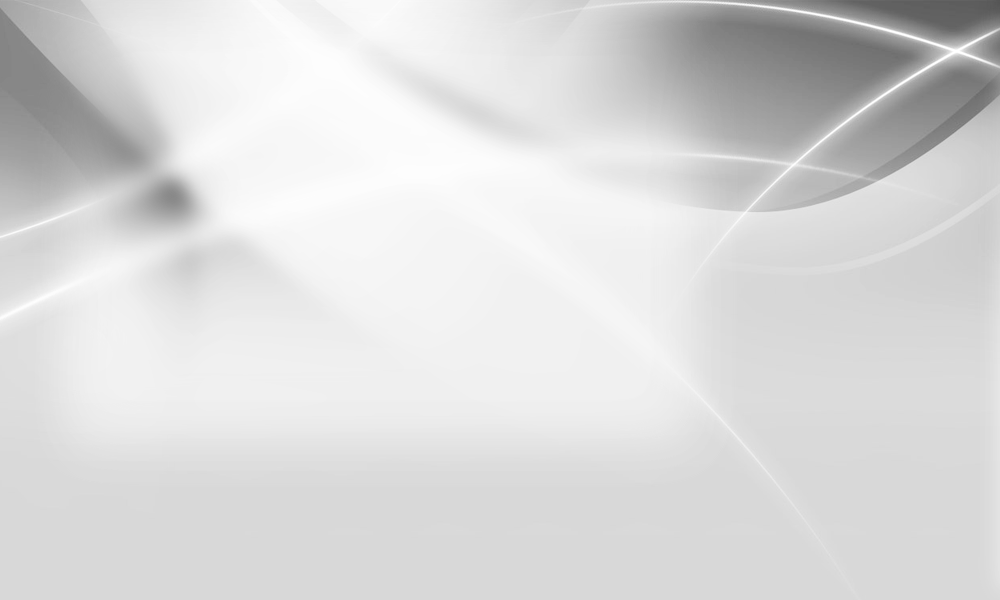
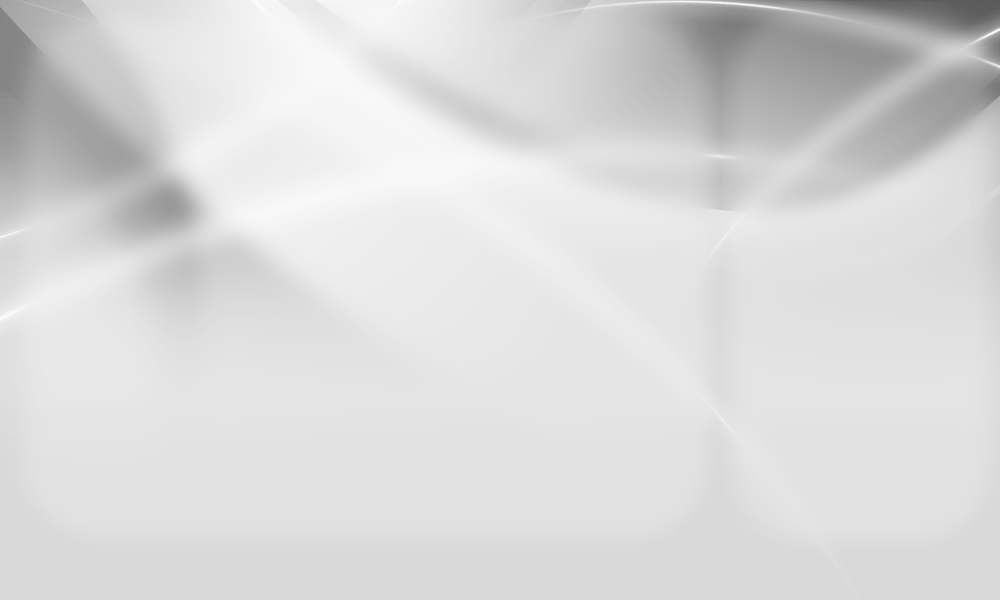
update animations and editor background

diff --git a/src/lightbot/graphics/Animation.java b/src/lightbot/graphics/Animation.java
@@ -30,6 +30,10 @@ public class Animation {
 	private Sprite cloneSprite = null;
 	
 	
+	private int currentCellX = Robot.wheatley.getLine();
+	private int currentCellY = Robot.wheatley.getColumn();
+	
+	
 	/********************************************************************************************/
 	/*										Constructors										*/
 	/********************************************************************************************/
@@ -327,11 +331,11 @@ public class Animation {
 					
 					if(isClone){
 						nextCellX = Robot.wheatleyClone.getLine()-1;
-						nextCellY = Robot.wheatleyClone.getColumn()+1;
+						//nextCellY = Robot.wheatleyClone.getColumn()+1;
 					}
 					else{
 						nextCellX = Robot.wheatley.getLine()-1;
-						nextCellY = Robot.wheatley.getColumn()+1;
+						//nextCellY = Robot.wheatley.getColumn()+1;
 					}
 					
 					break;
@@ -351,11 +355,15 @@ public class Animation {
 					break;
 			}
 		}
-		else if(upOrDown == 1){
+		else if(upOrDown == 1)
 			movementY = (Textures.cubeTextureWhite.getSize().y-Textures.cellTexture.getSize().y) / this.movementTime;
-		}
 		else
 			movementY = -(Textures.cubeTextureWhite.getSize().y-Textures.cellTexture.getSize().y) / this.movementTime;
+		
+		if(upOrDown != 0){
+			nextCellX = currentCellX;
+			nextCellY = currentCellY;
+		}
 		
 		Clock frameClock = new Clock();
 		Clock resetClock = new Clock();
@@ -378,30 +386,28 @@ public class Animation {
 							LightCore.window.draw(robotSprite);
 						}
 						
-						if(!(nextCellY > Robot.wheatleyClone.getColumn() 
-								&& (l >= nextCellX && l <= Robot.wheatleyClone.getLine())
-								&& (c >= nextCellY && c <= Robot.wheatleyClone.getColumn())) 
-								&& (l != nextCellX || c != nextCellY)){
-							if(!Robot.wheatley.getVisibility() || (Robot.wheatley.getVisibility() && Robot.wheatley.getLine() != l && Robot.wheatley.getColumn() != c))
-								printPillar(l, c);
+						if(nextCellX < Robot.wheatleyClone.getLine() && l == nextCellX && c == nextCellY){
+							printPillar(nextCellX, nextCellY);
 						}
-						
-						if(l == Robot.wheatleyClone.getLine() && c == Robot.wheatleyClone.getColumn()){
-							
-							if(nextCellY > Robot.wheatleyClone.getColumn() && nextCellX < Robot.wheatleyClone.getLine()){
-								LightCore.window.draw(cloneSprite);
-								
-								for(int lin = nextCellX; lin<=Robot.wheatleyClone.getLine(); lin++){
-									for(int cin = nextCellY; cin<cubes[0].length; cin++){
-										if(!(lin == nextCellX && cin < nextCellY)){
-											printPillar(lin, cin);
-										}
-									}
+						else if(l == Robot.wheatleyClone.getLine() && c == Robot.wheatleyClone.getColumn()){
+							printPillar(l, c);
+							if(nextCellY > Robot.wheatleyClone.getColumn()){
+								printPillar(l, nextCellY);
+							}
+							else if(nextCellX > Robot.wheatleyClone.getLine()){
+								for(int cin = 0; cin <= c; cin++){
+									printPillar(nextCellX, cin);
 								}
 							}
-							else{
-								printPillar(nextCellX, nextCellY);
-								LightCore.window.draw(cloneSprite);
+							LightCore.window.draw(cloneSprite);
+						}
+						else{
+							if(nextCellX > Robot.wheatleyClone.getLine()){
+								if((l == nextCellX && c > Robot.wheatleyClone.getColumn()) || l != nextCellX)
+									printPillar(l, c);
+							}
+							else if(l != nextCellX || c != nextCellY){
+									printPillar(l, c);
 							}
 						}
 					}
@@ -411,30 +417,28 @@ public class Animation {
 							LightCore.window.draw(cloneSprite);
 						}
 						
-						if(!(nextCellY > Robot.wheatley.getColumn() 
-								&& (l >= nextCellX && l <= Robot.wheatley.getLine())
-								&& (c >= nextCellY && c <= Robot.wheatley.getColumn())) 
-								&& (l != nextCellX || c != nextCellY)){
-							if(!Robot.wheatleyClone.getVisibility() || (Robot.wheatleyClone.getVisibility() && Robot.wheatleyClone.getLine() != l && Robot.wheatleyClone.getColumn() != c))
-								printPillar(l, c);
+						if(nextCellX < Robot.wheatley.getLine() && l == nextCellX && c == nextCellY){
+							printPillar(nextCellX, nextCellY);
 						}
-						
-						if(l == Robot.wheatley.getLine() && c == Robot.wheatley.getColumn()){
-							
-							if(nextCellY > Robot.wheatley.getColumn() && nextCellX < Robot.wheatley.getLine()){
-								LightCore.window.draw(robotSprite);
-								
-								for(int lin = nextCellX; lin<=Robot.wheatley.getLine(); lin++){
-									for(int cin = nextCellY; cin<cubes[0].length; cin++){
-										if(!(lin == nextCellX && cin < nextCellY)){
-											printPillar(lin, cin);
-										}
-									}
+						else if(l == Robot.wheatley.getLine() && c == Robot.wheatley.getColumn()){
+							printPillar(l, c);
+							if(nextCellY > Robot.wheatley.getColumn()){
+								printPillar(l, nextCellY);
+							}
+							else if(nextCellX > Robot.wheatley.getLine()){
+								for(int cin = 0; cin <= c; cin++){
+									printPillar(nextCellX, cin);
 								}
 							}
-							else{
-								printPillar(nextCellX, nextCellY);
-								LightCore.window.draw(robotSprite);
+							LightCore.window.draw(robotSprite);
+						}
+						else{
+							if(nextCellX > Robot.wheatley.getLine()){
+								if((l == nextCellX && c > Robot.wheatley.getColumn()) || l != nextCellX)
+									printPillar(l, c);
+							}
+							else if(l != nextCellX || c != nextCellY){
+									printPillar(l, c);
 							}
 						}
 					}
@@ -464,7 +468,11 @@ public class Animation {
 			
 				int frameRow = frame / 5;
 				int frameCol = frame % 5;
-				robotSprite.setTextureRect(new IntRect(frameCol * 38, frameRow * 50, 38, 50));
+				
+				if(isClone)
+					cloneSprite.setTextureRect(new IntRect(frameCol * 38, frameRow * 50, 38, 50));
+				else
+					robotSprite.setTextureRect(new IntRect(frameCol * 38, frameRow * 50, 38, 50));
 				
 				if(frame == 0)
 					rotate = false;
@@ -482,8 +490,17 @@ public class Animation {
 		    if(resetClock.getElapsedTime().asMilliseconds() >= movementTime)
 		    	finished = true;
 		}
+		currentCellX = nextCellX;
+	    currentCellY = nextCellY;
 	}
 	
+	 /**
+	  * 
+	  * @param line
+	  * @param column
+	  * @param level
+	  * @param open
+	  */
 	public void animeBlackHole(int line, int column, int level, boolean open){
 		boolean finished = false;
 		boolean endDisplay = false;
@@ -502,7 +519,6 @@ public class Animation {
 		Clock animClock = new Clock();
 		
 		Vector2f initialPosition = cubes[line][column][level].getPosition();
-		System.out.println(initialPosition.x + " " + initialPosition.y);
 		
 		cubes[line][column][level].setTexture(Textures.cubeTextureWhite);
 		

diff --git a/src/lightbot/graphics/Editor.java b/src/lightbot/graphics/Editor.java
@@ -73,6 +73,9 @@ public class Editor implements DisplayMode{
 	private static Button robotButton;
 	private static Button homeButton;
 	
+	private static Button turnRobotLeft;
+	private static Button turnRobotRight;
+	
 	private Button turnLeftButton;
 	private Button turnRightButton;
 	
@@ -191,6 +194,17 @@ public class Editor implements DisplayMode{
 		
 		robotButton = new Button(robotSprite, Textures.robotButtonTexture, Textures.robotButtonTextureRelief);
 		
+		
+		// Button for the robot's rotation
+		Sprite turnRobotLeftSprite = new Sprite(Textures.rotateLeft);
+		Sprite turnRobotRightSprite = new Sprite(Textures.rotateRight);
+		turnRobotLeftSprite.setPosition((float)(GRID_DISPLAY_SIZE+MARGIN_LEFT+((235-2*Textures.rotateLeft.getSize().x)/3)), 300);
+		turnRobotRightSprite.setPosition((float)(GRID_DISPLAY_SIZE+MARGIN_LEFT+((235-2*Textures.rotateLeft.getSize().x)/3)*2+Textures.rotateLeft.getSize().y), 300);
+		
+		turnRobotLeft = new Button(turnRobotLeftSprite, null, null);
+		turnRobotRight = new Button(turnRobotRightSprite, null, null);
+		
+		// Button for grid rotation
 		Sprite turnLeftSprite = new Sprite(Textures.rotateLeft);
 		turnLeftSprite.setPosition(MARGIN_LEFT+35, (WINDOW_HEIGHT-MARGIN_LEFT-30-Textures.rotateLeft.getSize().y));
 		
@@ -205,6 +219,7 @@ public class Editor implements DisplayMode{
 		
 		homeButton = new Button(homeSprite, null, null);
 		
+		toDisplay.add(new Sprite(Textures.backgroundTexture));
 		canva.initCanva();
 		toDisplay.addAll(canva.getCanva());
 		toDisplay.add(turnLeftSprite);
@@ -226,6 +241,9 @@ public class Editor implements DisplayMode{
 		
 		toDisplay.add(homeSprite);
 		
+		toDisplay.add(turnRobotLeftSprite);
+		toDisplay.add(turnRobotRightSprite);
+		
 		blueSplash.setId(id);
 		orangeSplash.setId(id+1);
 		purpleSplash.setId(id+2);
@@ -238,6 +256,9 @@ public class Editor implements DisplayMode{
 		robotButton.setId(id+8);
 		
 		homeButton.setId(id+9);
+		
+		turnRobotLeft.setId(id+10);
+		turnRobotRight.setId(id+11);
 	}
 	
 	/**
@@ -304,7 +325,7 @@ public class Editor implements DisplayMode{
 								display.displayRobot(pos.getLine(), pos.getColumn(), originX, originY);
 						}
 						else{
-							System.out.println("Add cube on : \t\tLine : " + pos.getLine() + ", column : " + pos.getColumn() + ", level : " + pos.getLevel());
+							//System.out.println("Add cube on : \t\tLine : " + pos.getLine() + ", column : " + pos.getColumn() + ", level : " + pos.getLevel());
 		       	 			if(light){
 		       	 				if(!(display.gridDisplay.grid.getCell(pos.getLine(), pos.getColumn()) instanceof TeleportCell) 
 		       	 							&& !(display.gridDisplay.grid.getCell(pos.getLine(), pos.getColumn()) instanceof ColoredCell)
@@ -407,7 +428,7 @@ public class Editor implements DisplayMode{
 					if(pos.isFound() && pos.getLevel() > -1){
 						Cell cell = display.gridDisplay.grid.getCell(pos.getLine(), pos.getColumn());
 						
-						System.out.println("Remove cube on : \tLine : " + pos.getLine() + ", column : " + pos.getColumn() + ", level : " + pos.getLevel());
+						//System.out.println("Remove cube on : \tLine : " + pos.getLine() + ", column : " + pos.getColumn() + ", level : " + pos.getLevel());
 	       	 			display.anim.addRemoveCube(pos.getLine(), pos.getColumn(), pos.getLevel(), false, false);
 	       	 			display.gridDisplay.removeCube(pos.getLine(), pos.getColumn(), pos.getLevel()+1);
 	       	 			display.anim.updateSprite(display.gridDisplay.getGridSprites());
@@ -569,6 +590,14 @@ public class Editor implements DisplayMode{
 					display.rotate(1);
 					break;
 					
+				case TURN_ROBOT_LEFT:
+					display.rotateRobot(RelativeDirection.LEFT);
+					break;
+					
+				case TURN_ROBOT_RIGHT:
+					display.rotateRobot(RelativeDirection.RIGHT);
+					break;
+					
 				case SPLASH_BLUE:
 					blueSplash.changeTexture();
 					toDisplay.set(blueSplash.getId(), blueSplash.getSprite());
@@ -660,6 +689,10 @@ public class Editor implements DisplayMode{
 				return EditorEvent.TURN_LEFT;
 			else if(turnRightButton.isInside(mouse.position))
 				return EditorEvent.TURN_RIGHT;
+			else if(turnRobotLeft.isInside(mouse.position))
+				return EditorEvent.TURN_ROBOT_LEFT;
+			else if(turnRobotRight.isInside(mouse.position))
+				return EditorEvent.TURN_ROBOT_RIGHT;
 			else
 				return EditorEvent.GRID_ADD;
 		}

diff --git a/src/lightbot/graphics/RobotDisplay.java b/src/lightbot/graphics/RobotDisplay.java
@@ -1,5 +1,8 @@
 package lightbot.graphics;
 
+import java.io.IOException;
+import java.nio.file.Paths;
+
 import lightbot.LightCore;
 import lightbot.system.CardinalDirection;
 import lightbot.system.Colour;
@@ -22,8 +25,6 @@ public class RobotDisplay implements DisplayPrimitive{
 	private int originX;
 	private int originY;
 	
-	private Colour colour;
-	private CardinalDirection direction;
 	private int transparency;
 	
 	private final float robotHeight = 20;
@@ -54,31 +55,41 @@ public class RobotDisplay implements DisplayPrimitive{
 		this.line = this.robot.getLine();
 		this.column = this.robot.getColumn();
 		this.level = GridDisplay.levelMax[this.line][this.column];
-		this.colour = this.robot.getColour();
-		this.direction = this.robot.getDirection();
 		
 		this.transparency = transparency;
 		
-		System.out.println("Line : " + line + ", column : " + column + ", level : " + level + " " + direction.toString());
+		//System.out.println("Line : " + line + ", column : " + column + ", level : " + level + " " + direction.toString());
 		
-		
-		switch(this.robot.getDirection()){
-			case EAST:
-				currentTexture = Textures.robotEast;
+		String colour = "";
+		switch(this.robot.getColour()){
+			case BLUE:
+				colour = "blue";
 				break;
-			case NORTH:
-				currentTexture = Textures.robotNorth;
+			case ORANGE:
+				colour = "orange";
 				break;
-			case SOUTH:
-				currentTexture = Textures.robotSouth;
+			case PURPLE:
+				colour = "purple";
 				break;
-			case WEST:
-				currentTexture = Textures.robotWest;
+			case RED:
+				colour = "red";
 				break;
 			default:
-				currentTexture = Textures.robotNorth;
+				colour = "white";
 				break;
 		}
+		
+		String direction = this.robot.getDirection().toString().toLowerCase();
+		
+		String path = "ressources/robot/" + colour + "_" + direction + ".png";
+		
+		currentTexture = new Texture();
+		try {
+			currentTexture.loadFromFile(Paths.get(path));
+		} catch (IOException e) {
+			e.printStackTrace();
+		}
+		currentTexture.setSmooth(true);
 		
 		this.robotSprite = create();
 	}

diff --git a/src/lightbot/graphics/Display.java b/src/lightbot/graphics/Display.java
@@ -189,4 +189,13 @@ public class Display {
 		else
 			anim.updateSprite(gridDisplay.getGridSprites());
 	}
+	
+	public void rotateRobot(RelativeDirection direction){
+		if(robotIsDisplayed){
+			Turn turn = new Turn(direction, Colour.WHITE);
+			turn.execute(null, Robot.wheatley);
+			robotDisplay.updateRobot(Robot.wheatley, robotTransparency);
+			anim.updateSprite(gridDisplay.getGridSprites(), robotDisplay.getSprite());
+		}
+	}
 }

diff --git a/src/lightbot/graphics/EditorEvent.java b/src/lightbot/graphics/EditorEvent.java
@@ -13,6 +13,9 @@ public enum EditorEvent {
 	ROBOT,
 	HOME,
 	
+	TURN_ROBOT_LEFT,
+	TURN_ROBOT_RIGHT,
+	
 	TURN_LEFT,
 	TURN_RIGHT,
 	
